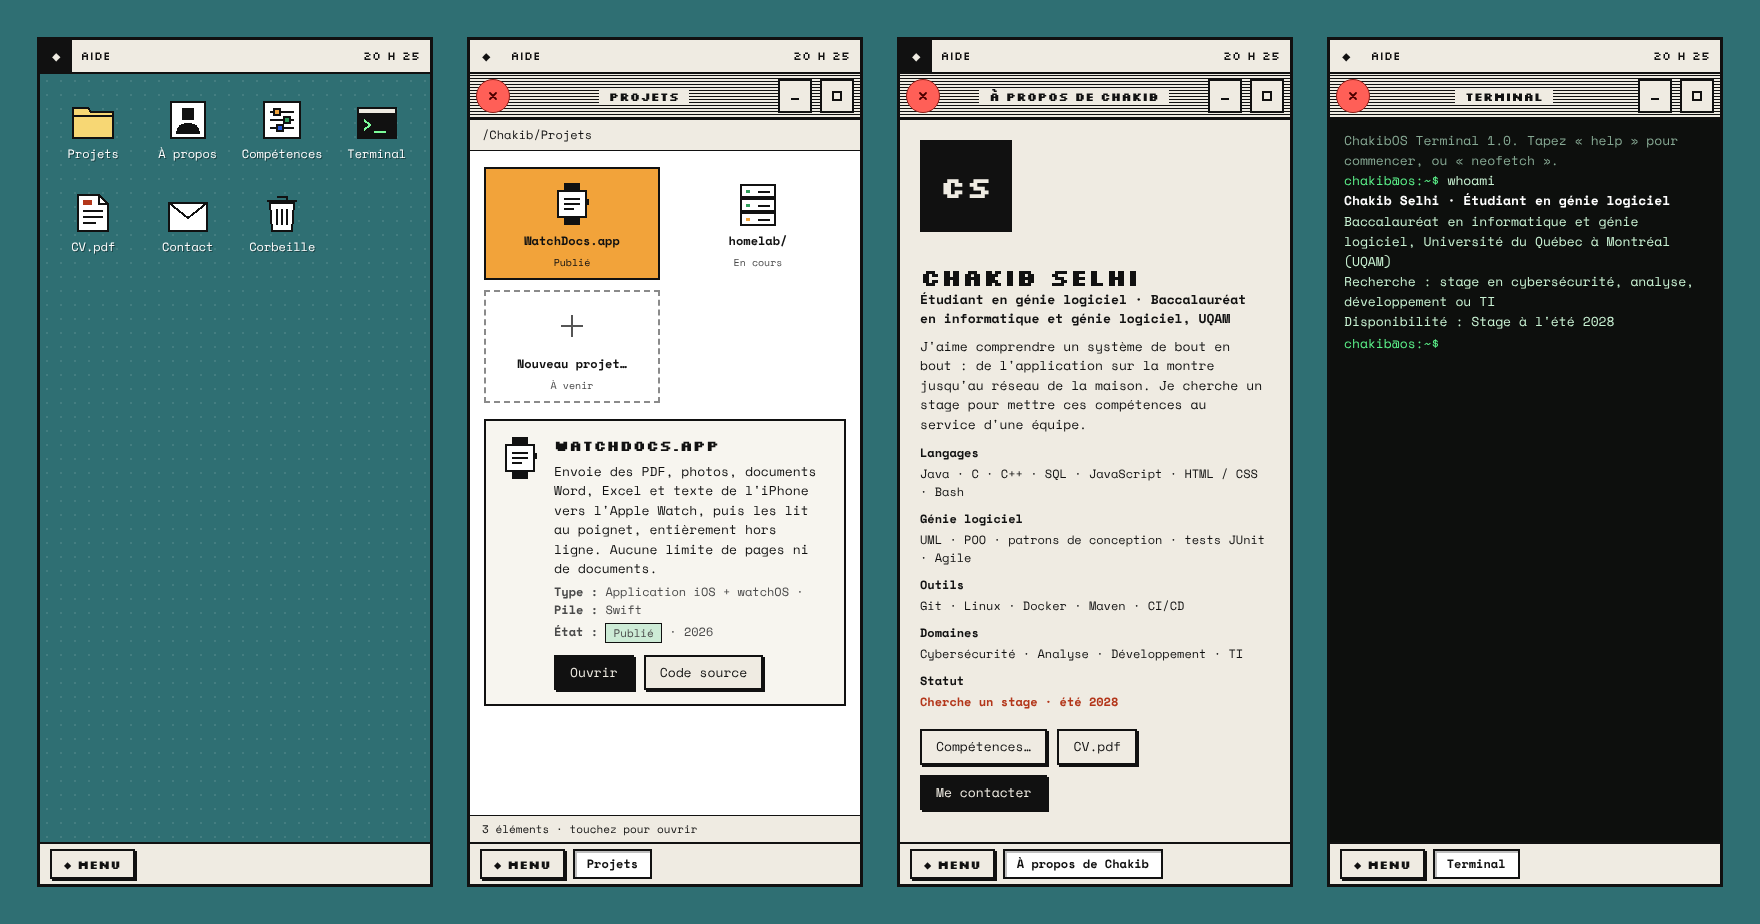
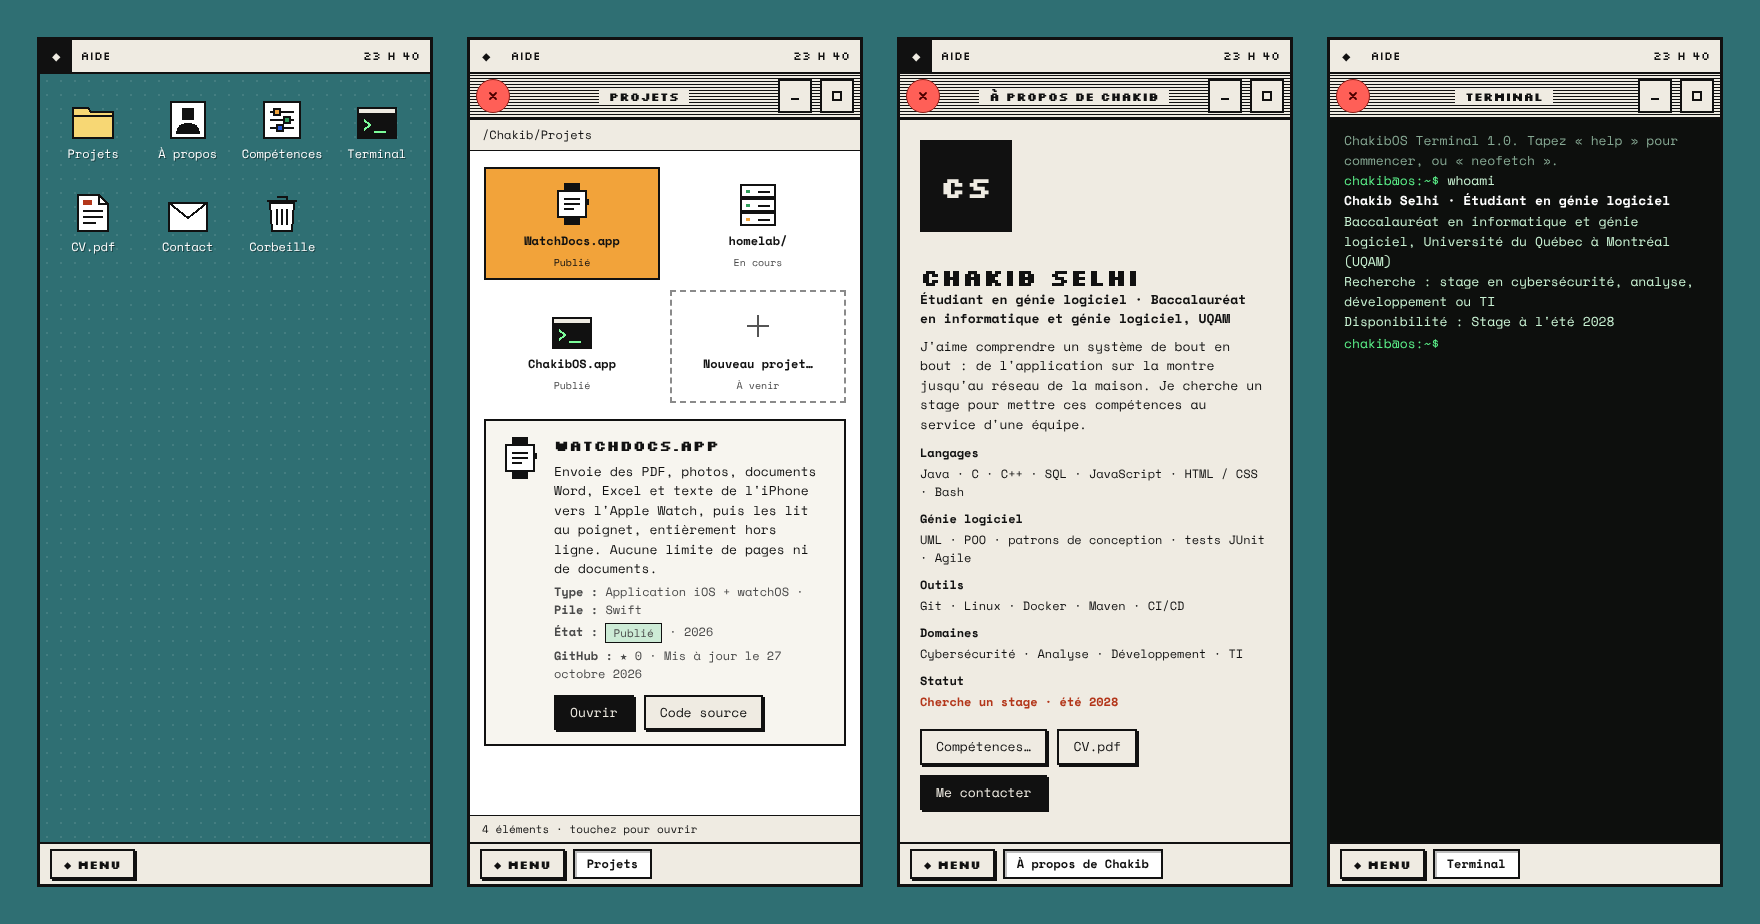
docs: met à jour le README et les captures d'écran
Nouvelles captures : documentation README dans le site et version
anglaise. Les autres captures montrent les données GitHub réelles.

Changed region(s): [[0.3125, 0.697, 0.4375, 0.8182], [0.3125, 0.3333, 0.3438, 0.4242], [0.4062, 0.3939, 0.4375, 0.4242]]

diff --git a/README.md b/README.md
@@ -12,7 +12,9 @@ en cybersécurité, analyse, développement ou TI.
 
 - **Gestionnaire de fenêtres** écrit à la main : déplacement, redimensionnement, réduction, plein écran, pile de fenêtres et barre des tâches.
 - **Applications** : À propos, Projets (explorateur de fichiers + fiche de chaque projet), Compétences, CV.pdf, Contact.
-- **Terminal** avec ses commandes (`help`, `whoami`, `neofetch`, `ls`, `cat`, `open`, `stage`, `contact`), complétion par Tab et historique.
+- **Terminal** avec ses commandes (`help`, `whoami`, `neofetch`, `ls`, `cat`, `open`, `skills`, `github`, `stage`, `contact`, `lang`), complétion par Tab et historique.
+- **Projets synchronisés avec GitHub** : chaque dépôt public apparaît automatiquement dans Projets, avec sa description, ses langages, ses sujets, ses statistiques et son README affiché dans le site. Les compétences et la pile technique se mettent à jour en même temps (API GitHub, cache local, mode hors ligne).
+- **Bilingue français / anglais** : bouton dans le menu Aide, changement de langue sans recharger la page. La langue du navigateur est détectée à la première visite.
 - **Version simple** (`simple.html`) : tout le CV sur une seule page, lisible et imprimable, pour les recruteurs pressés.
 - **Mobile** : chaque fenêtre devient une application plein écran.
 - **Accessible au clavier** : Tab pour parcourir, Entrée pour ouvrir, Échap pour fermer la fenêtre active.
@@ -27,8 +29,10 @@ en cybersécurité, analyse, développement ou TI.
 | ![Fenêtre Compétences](docs/screenshots/04-competences.png) | ![Terminal avec neofetch](docs/screenshots/05-terminal.png) |
 | **CV.pdf** | **Contact** |
 | ![Fenêtre CV](docs/screenshots/06-cv.png) | ![Fenêtre Contact](docs/screenshots/07-contact.png) |
-| **Menu ChakibOS** | **Version simple** |
-| ![Menu ChakibOS](docs/screenshots/08-menu.png) | ![Version simple du CV](docs/screenshots/09-version-simple.png) |
+| **Menu Aide (langue)** | **Version simple** |
+| ![Menu Aide avec le choix de la langue](docs/screenshots/08-menu.png) | ![Version simple du CV](docs/screenshots/09-version-simple.png) |
+| **README d'un dépôt dans le site** | **Version anglaise** |
+| ![Documentation README de WatchDocs affichée dans le site](docs/screenshots/11-documentation-readme.png) | ![Bureau en anglais](docs/screenshots/12-english.png) |
 
 **Sur mobile**
 
@@ -58,7 +62,9 @@ index.html      Bureau ChakibOS
 simple.html     Version simple et imprimable du CV
 css/os.css      Styles du bureau et des fenêtres
 css/simple.css  Styles de la version simple
-js/data.js      Contenu du portfolio
+js/data.js      Contenu du portfolio (français et anglais)
+js/i18n.js      Traductions de l'interface et changement de langue
+js/github.js    Synchronisation des dépôts publics GitHub, rendu des README
 js/icons.js     Icônes pixel (SVG)
 js/cv.js        Rendu du CV (partagé par la fenêtre CV.pdf et simple.html)
 js/apps.js      Applications : À propos, Projets, Compétences, Contact, CV, etc.
